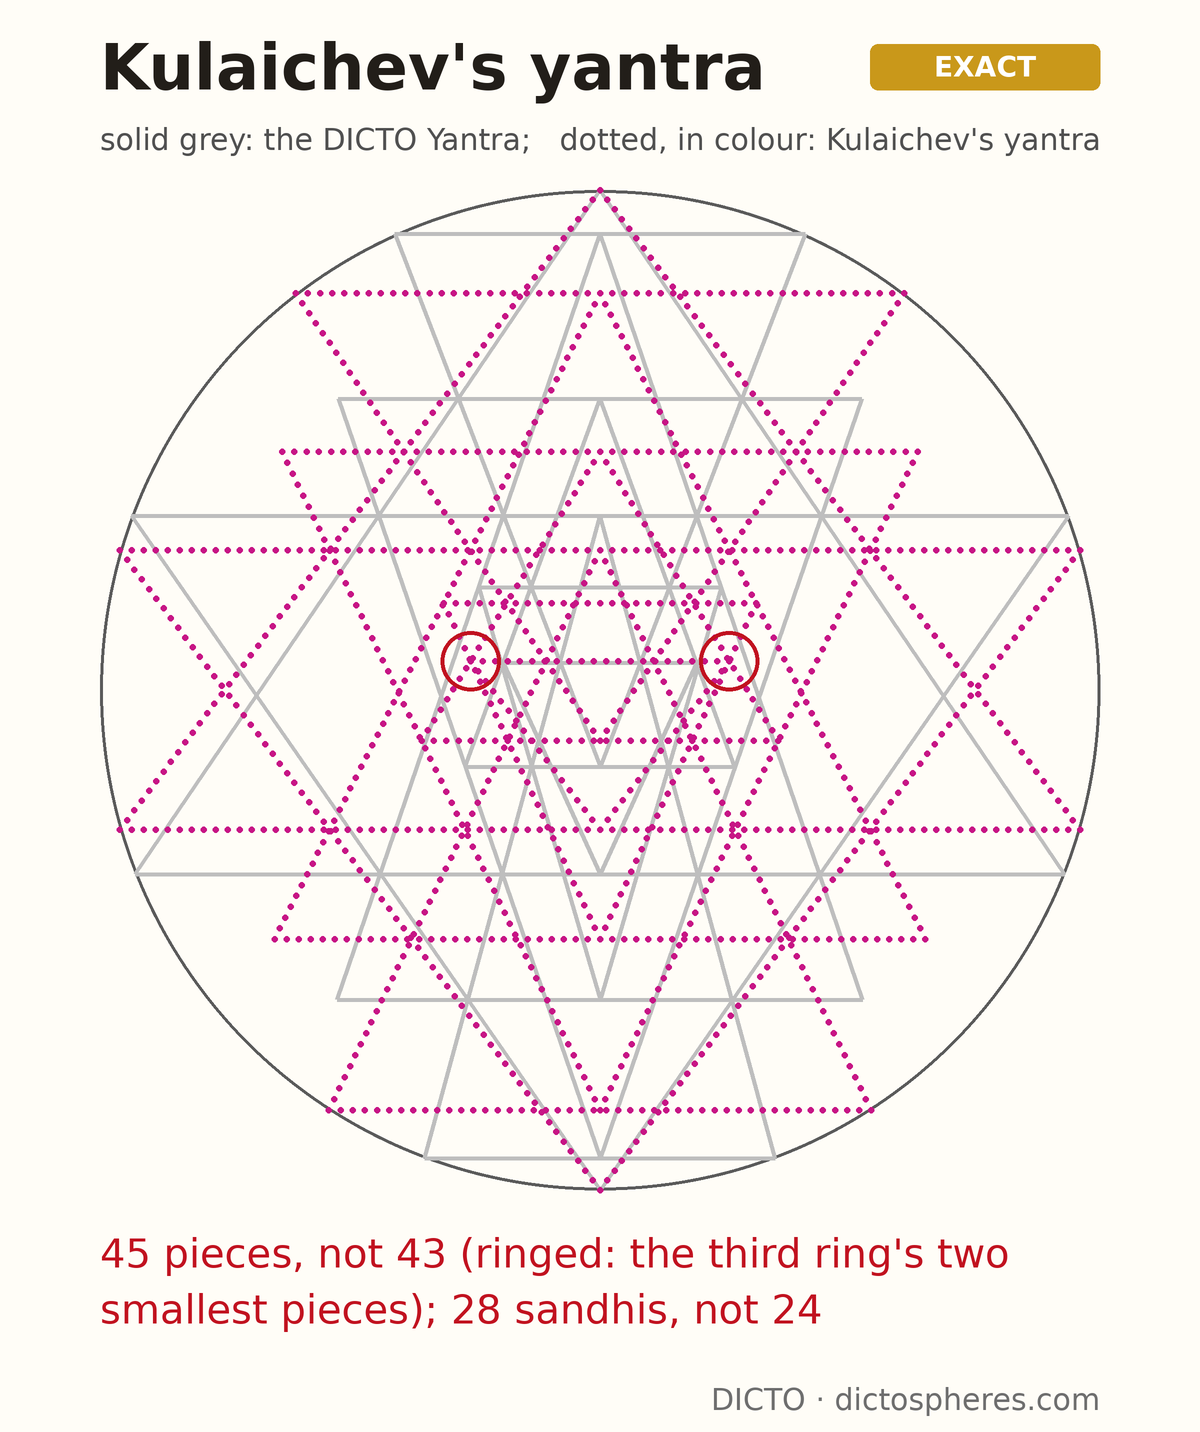
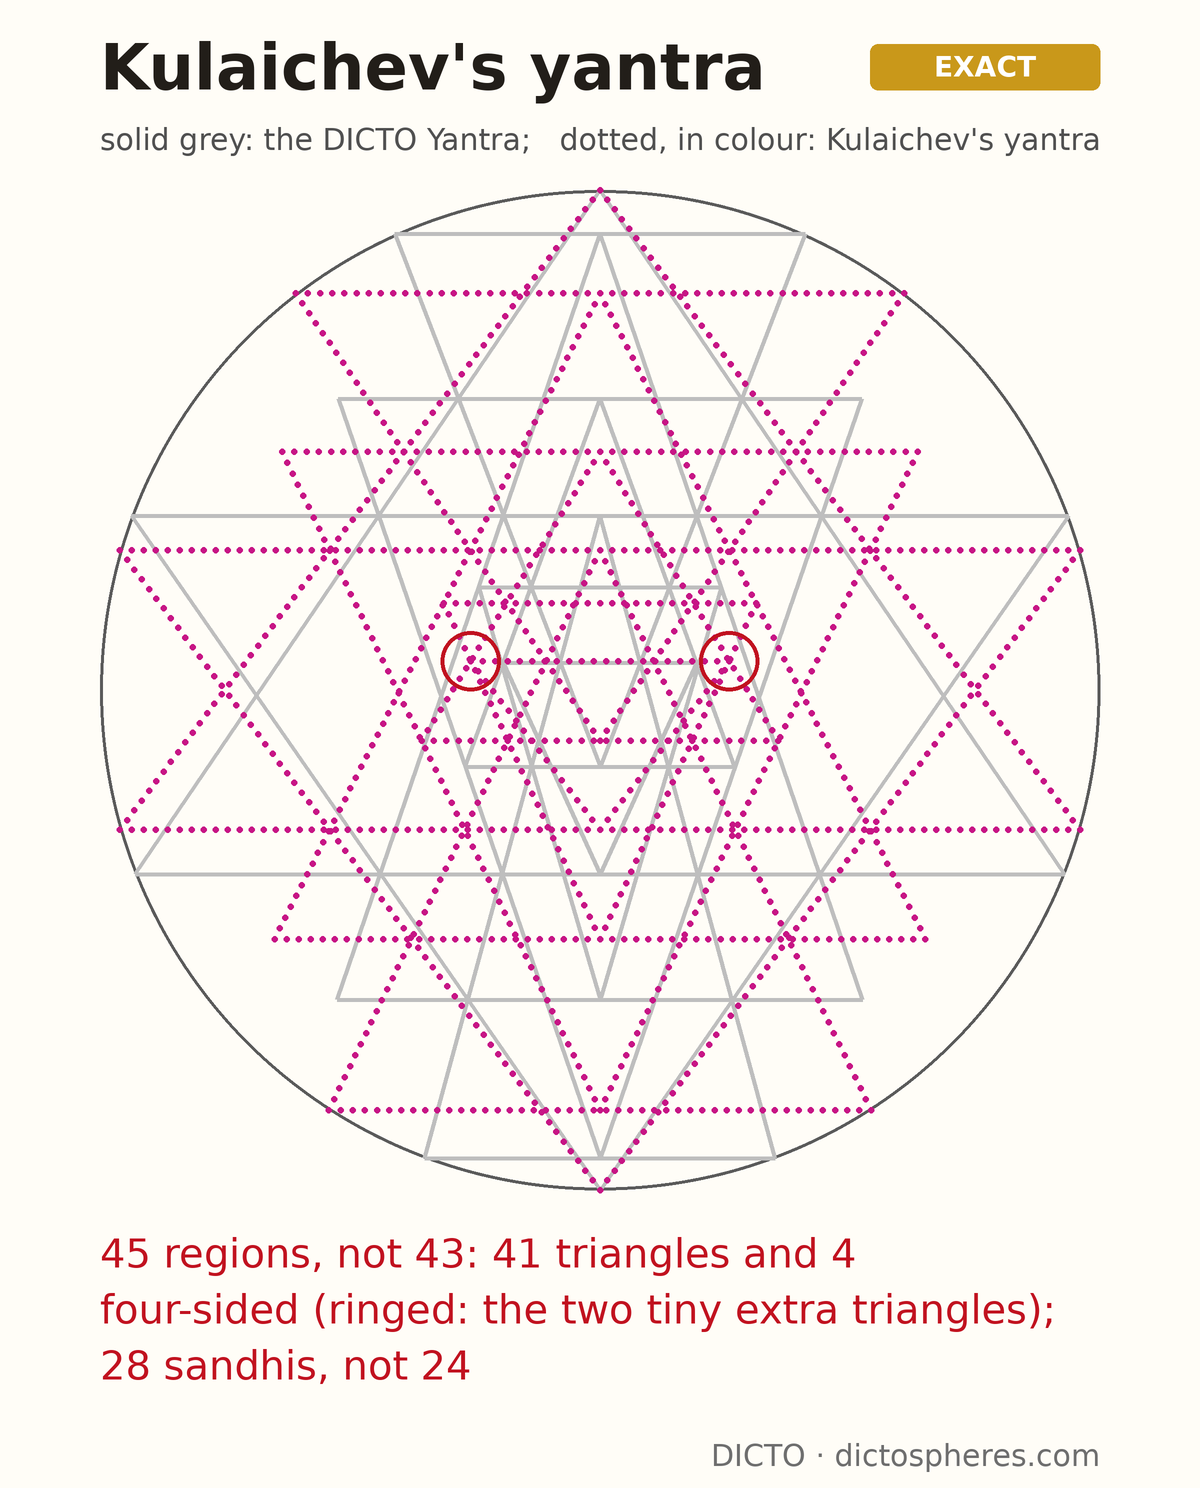
DE-DICTO article: E1 in colour, the crossing close-up, overlay relabelled (regions); figure.py caption says regions and counts triangles

diff --git a/papers/de-dicto-yantra/paper.html b/papers/de-dicto-yantra/paper.html
@@ -7,7 +7,7 @@
 <div class="kicker">DE-DICTO · feature</div>
 <h1>The Seemingly Impossible Yantra<br><span style="font-size:0.72em;font-weight:normal">Two exact solutions of the Śrī Yantra, forty years after the question</span></h1>
 <div class="meta"><b>DICTO</b> · dictospheres.com · 9 November 2026 · from paper #103, The DICTO Yantra (DICTO DOI: 10.5281/zenodo.24052633)</div>
-<div class="status">DRAFT article for DE-DICTO Issue 1, for DICTO's read. Changed since your read ok of 9 November: "regions" for "pieces", Kulaichev's four non-triangles, and the new section "The one the eye prefers" (E1). Numbers now those of #103 Version 3 (published 10 November, DICTO DOI 10.5281/zenodo.24052633). Held for Issue 1; venue and layout still yours to settle.</div>
+<div class="status">DRAFT article for DE-DICTO Issue 1, for DICTO's read. Changed since your read ok of 9 November: "regions" for "pieces", Kulaichev's four non-triangles, the new section "The one the eye prefers" (E1) with E1 in colour, and the close-up of where Kulaichev's triangles break. Numbers now those of #103 Version 3 (published 10 November, DICTO DOI 10.5281/zenodo.24052633). Held for Issue 1; venue and layout still yours to settle.</div>
 
 <p>The Śrī Yantra is nine triangles in a circle, four pointing up and five pointing down, drawn for more than a thousand years in India. Its rule is simple to say and very hard to obey: wherever three lines are meant to meet, they must meet in a single point. There are eighteen such meetings. Draw it by hand and some always miss by a hair.</p>
 <p>In 1984 A. P. Kulaichev set out to find a yantra in which every meeting is exact and three further things hold: the corners of the top and bottom small triangles touch the circle, and the innermost triangle sits exactly at the centre. Such a yantra exists, and it has been computed to many decimals. But its exact form, the equation its shape obeys, stayed out of reach. In 2014 V.-V. Pustynski judged a purely analytical solution "probably impossible".</p>
@@ -30,8 +30,10 @@
 
 <h2>Two choices, honestly told</h2>
 <p>Kulaichev's conditions still leave one thing free. He closed it with equal great triangles; the DICTO Yantra closes it with the Cleo-Antonius. Neither choice is forced by mathematics, and the paper says so. What the exact forms now settle is a difference anyone can count: Kulaichev's yantra has 45 small regions, two extra tiny triangles in its third ring (as Pustynski noticed), and four of its regions are not triangles; the DICTO Yantra keeps the traditional 43, every one a triangle.</p>
+<figure><img src="figures/yantra-crossing.png" alt="Close-ups at one corner: in the DICTO Yantra a line passes beside the corner; in Kulaichev's yantra it crosses over it and breaks two triangles"><figcaption><b>Where Kulaichev's triangles break.</b> Seen enlarged about 120 and 500 times at the same corner. Left, the DICTO Yantra: the red line passes beside the corner and every region stays a triangle. Middle and right, Kulaichev's yantra: the red line has crossed over the corner, by a third of a thousandth of the circle's width. It cuts out a tiny extra triangle (pink) and clips the tips off two triangles (blue), which become four-sided. Right: the lines alone, with the crossing points marked.</figcaption></figure>
 <h2>The one the eye prefers</h2>
 <p>To DICTO's eye the most beautiful of all is a third yantra, E1: the one whose 43 triangles are as equal in size as they can be. It lets its smallest triangles sit just inside the circle, as painters have always drawn them. Computing it exactly showed why it looks so balanced: one of its lines runs precisely through the corner of another triangle. Push it one step further and four of its triangles lose their tips while two tiny new ones appear, the same break that marks Kulaichev's yantra. The yantra that looks best is the one taken right to the limit where every region is still a triangle.</p>
+<figure><img src="figures/e1-plate.png" alt="E1, the most even yantra, in colour: 43 triangles shaded ring by ring" style="width:120mm"><figcaption><b>E1, the most even yantra.</b> Its 43 triangles, shaded ring by ring in the same colours as the DICTO Yantra above, are as equal in size as a yantra allows; its smallest triangles sit just inside the circle, as painters draw them.</figcaption></figure>
 
 <figure><img src="figures/cleo-sphere-yantras-gf1.png" alt="Twenty DICTO Yantras on a sphere" style="width:110mm"><figcaption><b>On a sphere.</b> Twenty DICTO Yantras on the faces of the Cleo-Icos; split once more, eighty, and with the centre, eighty-one, the number of the rare Kongōkai mandala of 81 deities.</figcaption></figure>
 

diff --git a/studies/2026-11-08-sri-yantra/scripts/figure.py b/studies/2026-11-08-sri-yantra/scripts/figure.py
@@ -116,7 +116,7 @@ def main(path, name, out_svg, title):
     X = lambda x: M + (x + 0.5) * S_; Y = lambda d: M + d * S_
     W = S_ + 2 * M
     ring_col = {1: '#e9b44c', 3: '#d1495b', 5: '#7d3c98', 7: '#1f6f8b', 9: '#0b132b'}
-    o = [f'<svg xmlns="http://www.w3.org/2000/svg" viewBox="0 0 {W} {W + 70}" width="{W}" height="{W + 70}">',
+    o = [f'<svg xmlns="http://www.w3.org/2000/svg" viewBox="0 0 {W} {W + 96}" width="{W}" height="{W + 96}">',
          '<rect width="100%" height="100%" fill="#fffdf7"/>']
     for poly, cnt in odd:
         o.append('<polygon points="' + ' '.join(f'{X(x):.3f},{Y(y):.3f}' for x, y in poly) + f'" fill="{ring_col[cnt]}" fill-opacity="0.85" stroke="none"/>')
@@ -149,8 +149,10 @@ def main(path, name, out_svg, title):
             o.append(f'<polygon points="{cx:.2f},{cy - 7:.2f} {cx + 7:.2f},{cy:.2f} {cx:.2f},{cy + 7:.2f} {cx - 7:.2f},{cy:.2f}" fill="#1d4ed8" stroke="#fff" stroke-width="1.2"/>')
     o.append(f'<text x="{M}" y="{W + 12}" font-family="Helvetica,Arial,sans-serif" font-size="18" fill="#222">{title}</text>')
     o.append(f'<text x="{M}" y="{W + 40}" font-family="Helvetica,Arial,sans-serif" font-size="17" fill="#333">'
-             f'{len(odd)} odd faces ({", ".join(str(rings[c]) for c in (1, 3, 5, 7, 9))}) shaded by ring; red dots: the 18 marmas; blue diamonds: 6 corner touches; dashed: DICTO\'s rhombus (a kite unless u = v)</text>')
-    o.append(f'<text x="{W - 14}" y="{W + 62}" text-anchor="end" font-family="Helvetica,Arial,sans-serif" font-size="16" fill="#555">DICTO · dictospheres.com</text>')
+             f'{len(odd)} regions ({", ".join(str(rings[c]) for c in (1, 3, 5, 7, 9))}), {n_tri} of them triangles, shaded by ring; red dots: the 18 marmas;</text>')
+    o.append(f'<text x="{M}" y="{W + 62}" font-family="Helvetica,Arial,sans-serif" font-size="17" fill="#333">'
+             f'blue diamonds: corner touches; dashed: DICTO\'s rhombus (a kite unless u = v)</text>')
+    o.append(f'<text x="{W - 14}" y="{W + 88}" text-anchor="end" font-family="Helvetica,Arial,sans-serif" font-size="16" fill="#555">DICTO · dictospheres.com</text>')
     o.append('</svg>')
     open(out_svg, 'w').write('\n'.join(o))
     return n_tri, len(odd), rings
